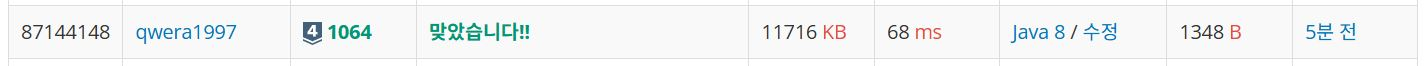
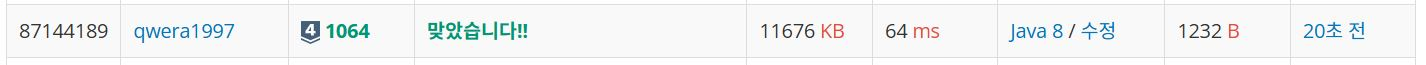
BOJ 1064 평행사변형

diff --git a/2024-12/src/day_04/BOJ_1064/Main.java b/2024-12/src/day_04/BOJ_1064/Main.java
@@ -18,15 +18,10 @@ public class Main {
         if (ccw(x1, y1, x2, y2, x3, y3) == 0) {
             System.out.println(-1);
         } else {
-            List<Double> dist = new ArrayList<>();
+            double[] dist = {distance(x1, y1, x2, y2), distance(x2, y2, x3, y3), distance(x3, y3, x1, y1)};
+            Arrays.sort(dist);
 
-            dist.add(distance(x1, y1, x2, y2));
-            dist.add(distance(x2, y2, x3, y3));
-            dist.add(distance(x3, y3, x1, y1));
-
-            dist.sort(Comparator.naturalOrder());
-
-            System.out.println((dist.get(2) - dist.get(0)) * 2);
+            System.out.println((dist[2] - dist[0]) * 2);
         }
     }
 
